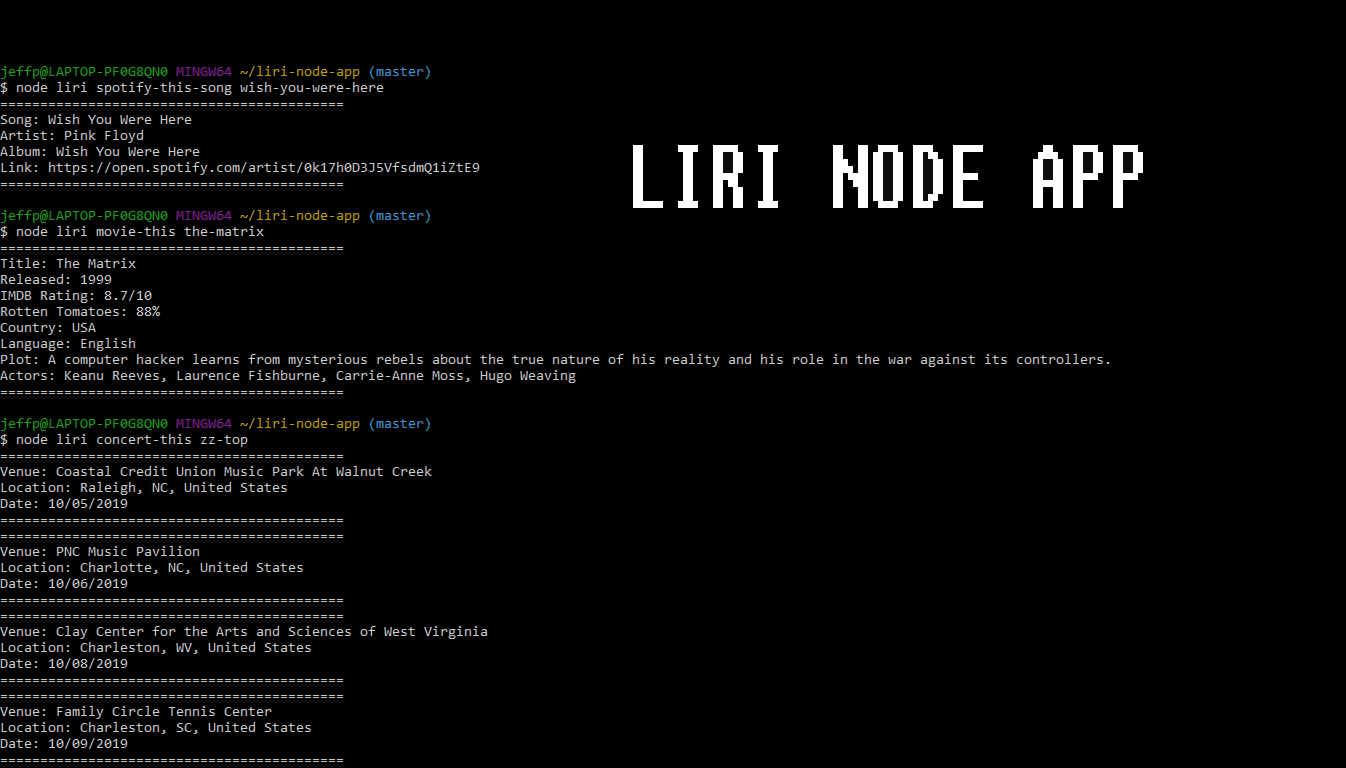
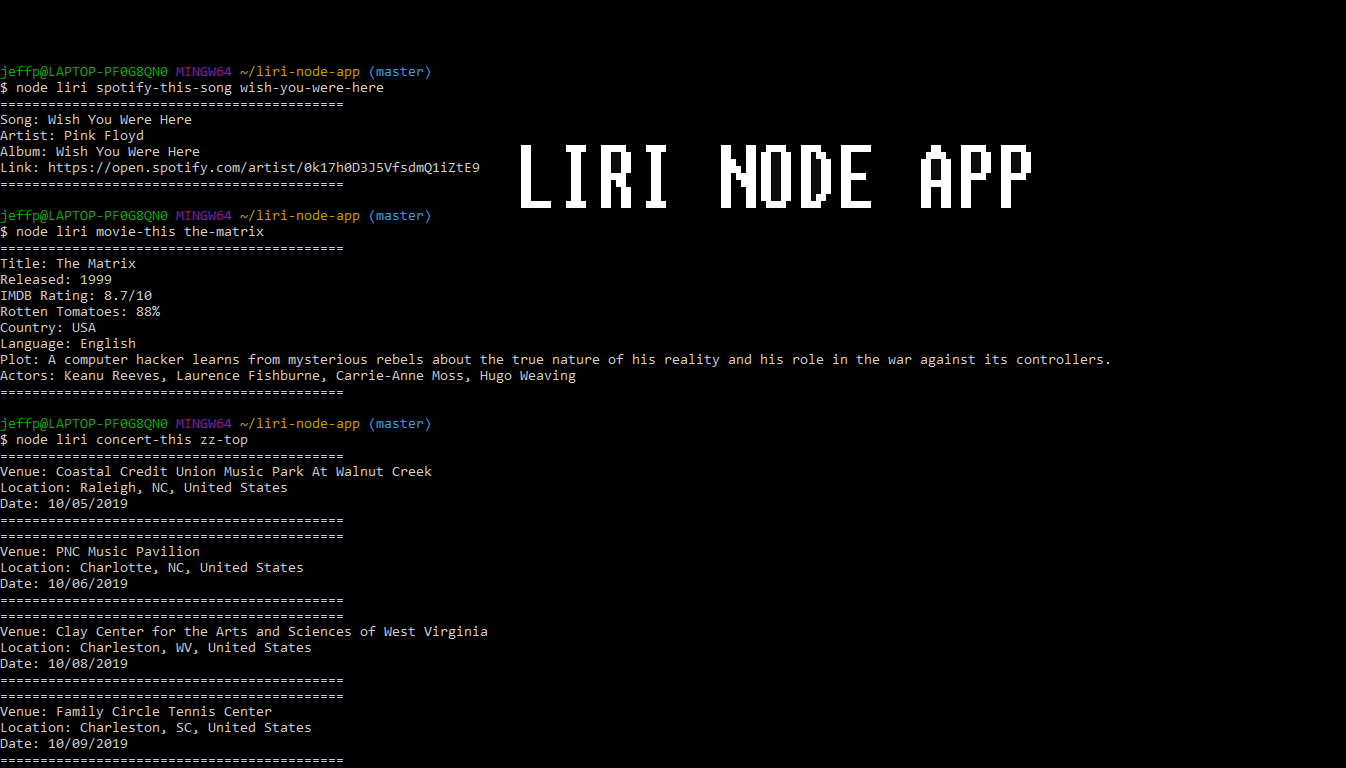
testing background queries

Changed region(s): [[0.3744, 0.1875, 0.8737, 0.2812]]

diff --git a/assets/css/style.css b/assets/css/style.css
@@ -205,7 +205,7 @@ h3 {
     }  
 
     #house-party, #trivia, #psychic, #gif, #train, #liri {
-        background-position: center 15%;
+        background-position: center center;
         background-size: 650px auto;
     }
 
